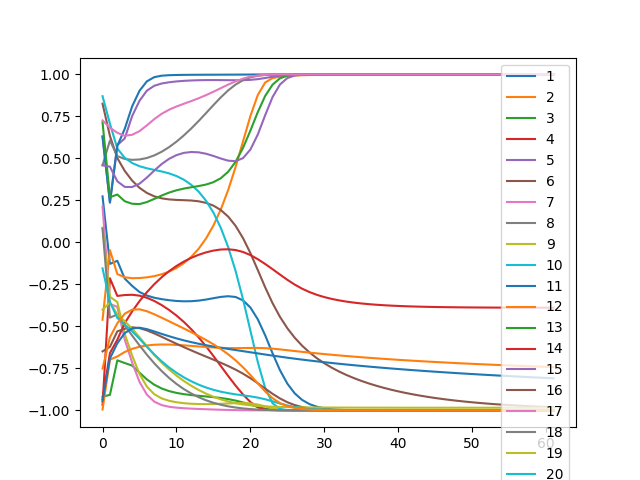
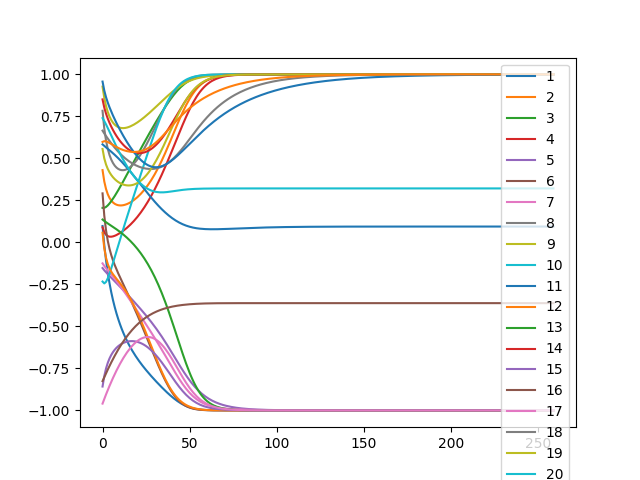
change back to np.random.seed

diff --git a/ode_sat.py b/ode_sat.py
@@ -2,7 +2,7 @@ import numpy as np
 from scipy.integrate import odeint
 from matplotlib import pyplot as plt
 
-np.random.s
+np.random.seed(0)
 
 
 class OdeSat:
@@ -34,7 +34,7 @@ class OdeSat:
 
         print(f"M: {self.M}, I: {self.I}")
 
-        self.initial_s = rng.uniform(-1, 1, self.I)
+        self.initial_s = np.random.uniform(-1, 1, self.I)
         self.initial_a = self.time * np.ones(self.M)
         self.initial = np.concatenate((self.initial_s, self.initial_a))
         print("initial:", np.max(self.initial))
@@ -113,12 +113,11 @@ class OdeSat:
 
 
 def test_stiffness(clauses, time_limit=1):
-    global rng
     res = 10
     while res < 10000000:
         print(res)
         try:
-            rng = np.random.default_rng(0)
+            np.random.seed(0)
             ode = OdeSat(clauses=clauses, resolution=res, time=time_limit)
             ts = ode.integrate()
         except Exception as e:
@@ -139,7 +138,7 @@ if __name__ == "__main__":
     res = test_stiffness(f1.clauses)
     print("resolution", res)
 
-    rng = np.random.default_rng(0)
+    np.random.seed(0)
     ode_sat = OdeSat(clauses=f1.clauses, resolution=res, time=1)
     sTs, aTs = ode_sat.integrate()
 
